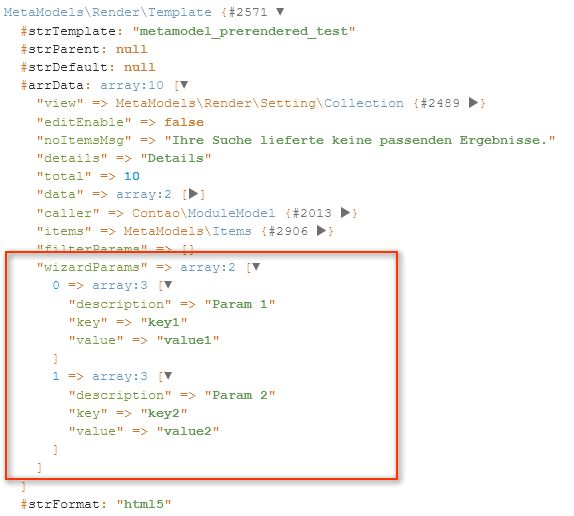
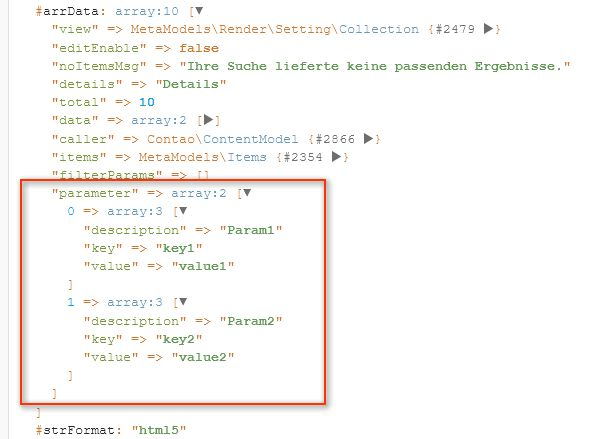
Fix MM 2.2

Changed region(s): [[0.0, 0.0, 0.9477, 1.0], [0.5923, 0.385, 0.622, 0.4442]]

diff --git a/manual/new-in-mm-22.rst b/manual/new-in-mm-22.rst
@@ -56,7 +56,7 @@ Allgemein und Core
   * die Parameter können wahlweise als Slug und/oder GET angegeben werden
 * neue Option zur Übermittlung von eigenen Parametern von den Einstellungen der Listenausgabe (CE/FE-Modul) an das
   Listentemplate. Über einen MCW können eigene "Key-Value-Pärchen" erstellt werden, die im Template über
-  "$this->wizardParams" als Array zur Verfügung stehen. Damit kann man ein Listentemplate weiter verallgemeinern
+  "$this->params" als Array zur Verfügung stehen. Damit kann man ein Listentemplate weiter verallgemeinern
   und über das Backend z. B. mit Bezeichnungen, Übersetzungen oder Parameter für die Ausgabe oder JavaScript-Inhalte
   steuern. Siehe Screenshots unten.
 
